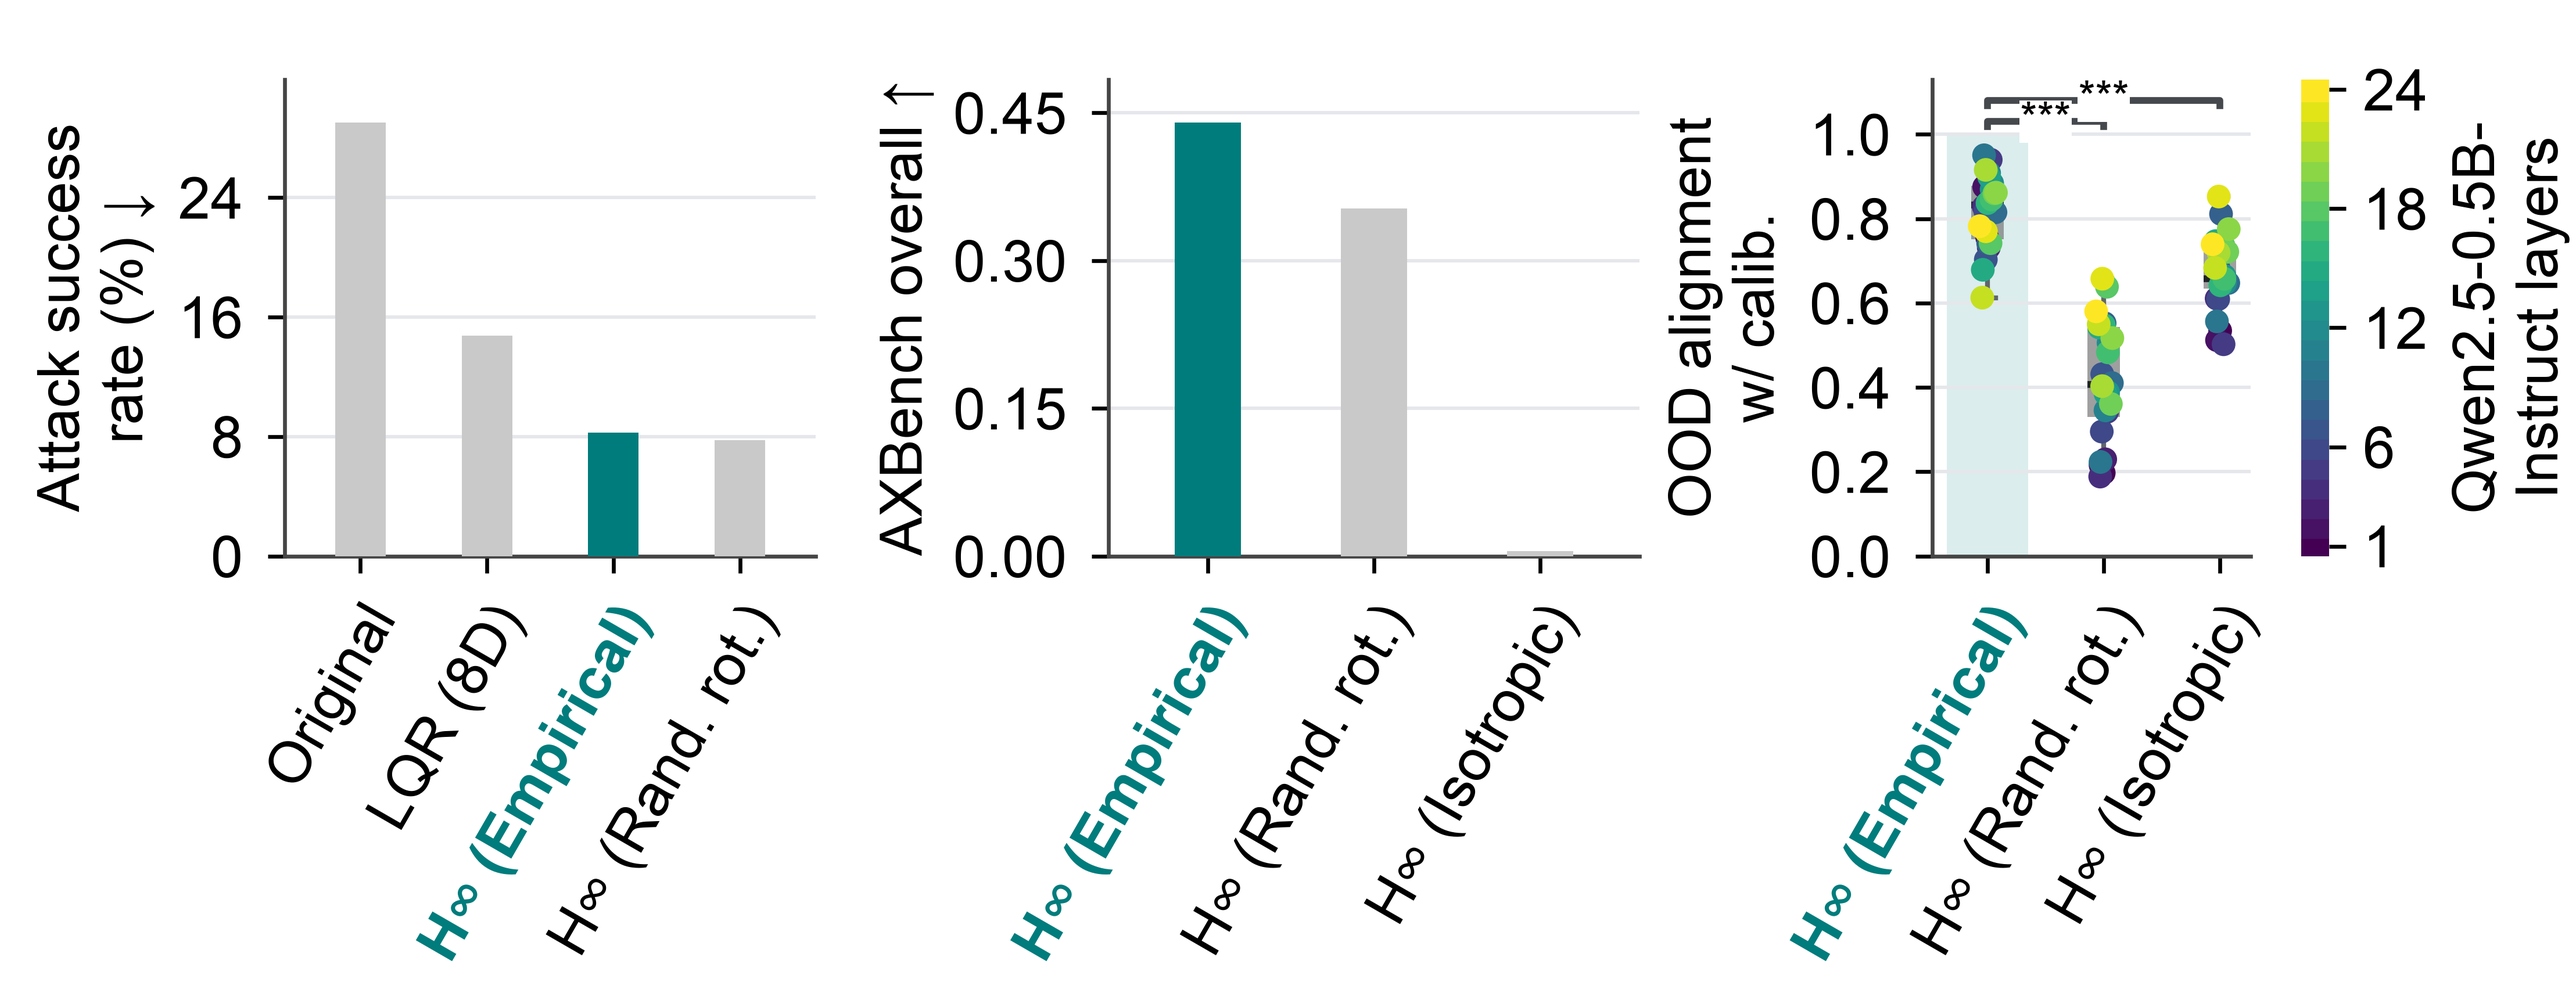
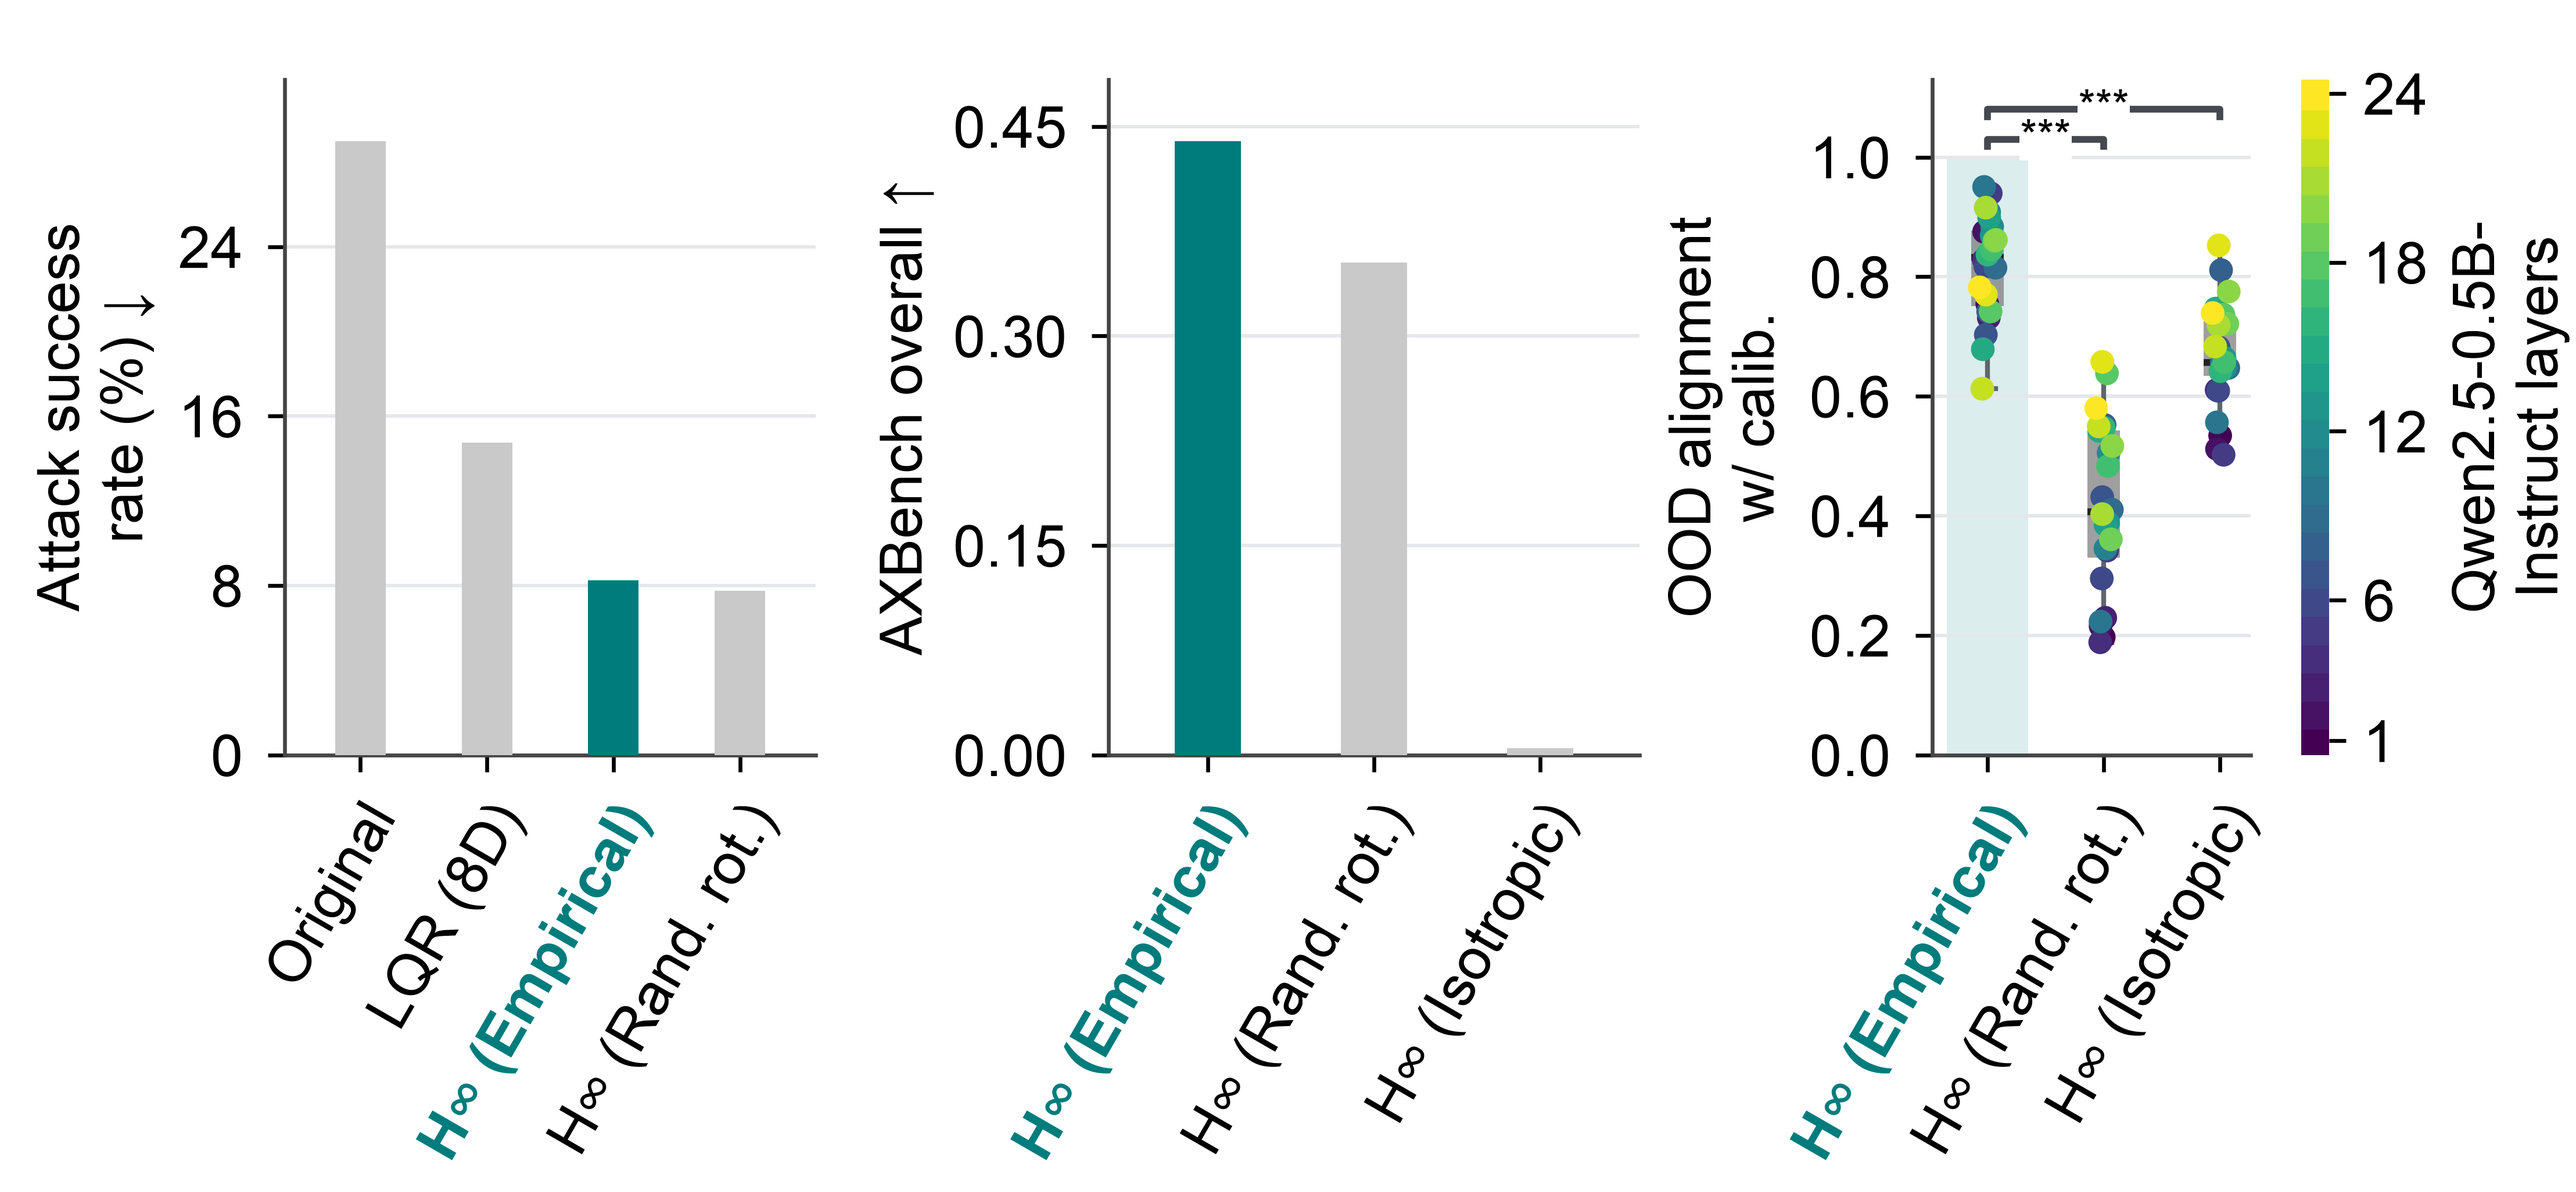
style: give geometry paper figure more vertical room

diff --git a/parking/rudra_rebuttal_residual_geometry/geometry_final_for_paper.py b/parking/rudra_rebuttal_residual_geometry/geometry_final_for_paper.py
@@ -71,7 +71,7 @@ def report():
                          'axes.spines.top': False, 'axes.spines.right': False,
                          'axes.linewidth': .8, 'axes.edgecolor': '#454545', 'pdf.fonttype': 42}):
         # Preserve horizontal placement and room for the rotated category labels.
-        figure_height = 3.8 * .75
+        figure_height = 3.8 * .90
         bottom = (3.8 * .33) / figure_height
         height = 1 - bottom - (3.8 * .06) / figure_height
         width = 4.8 * (.98 - .17) / (2 + .55)
